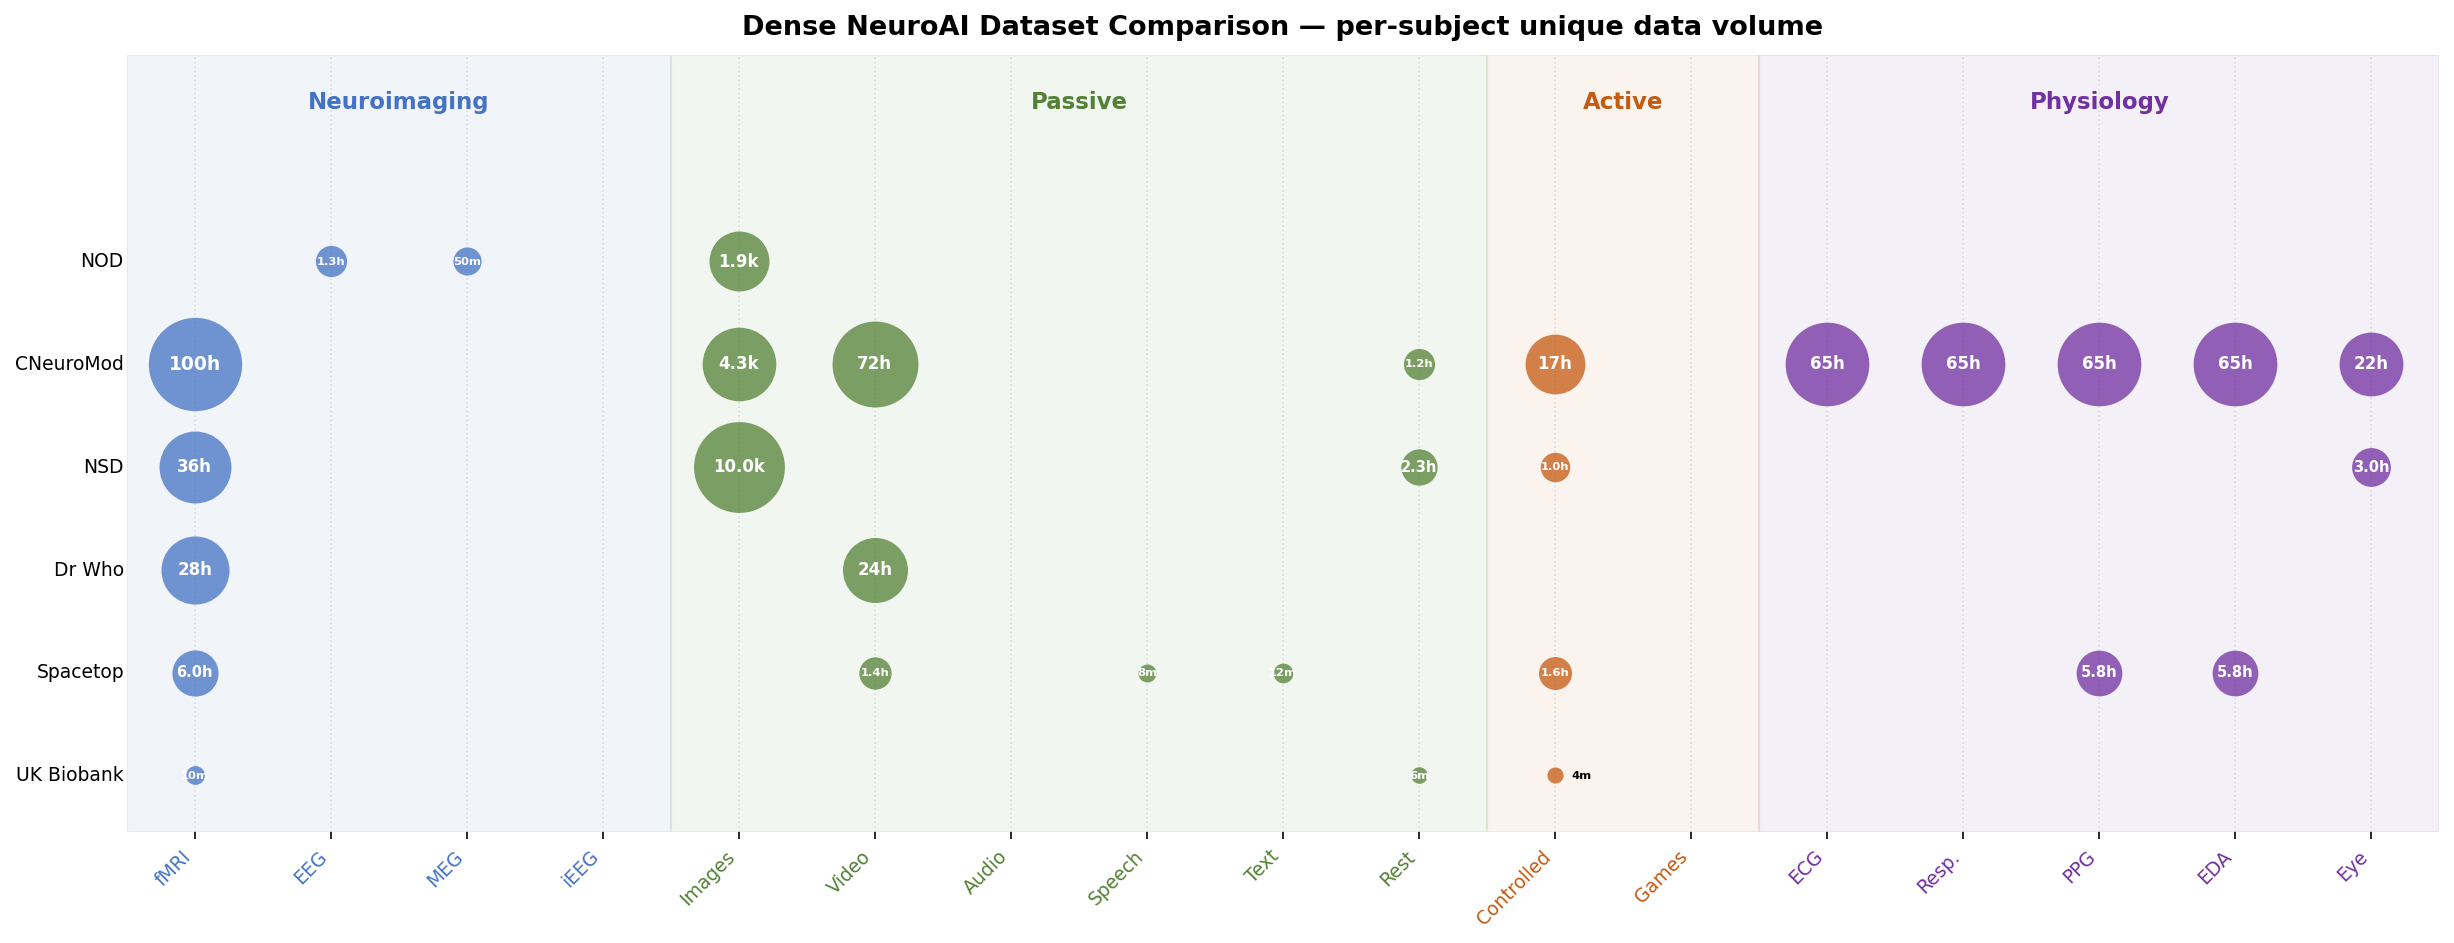
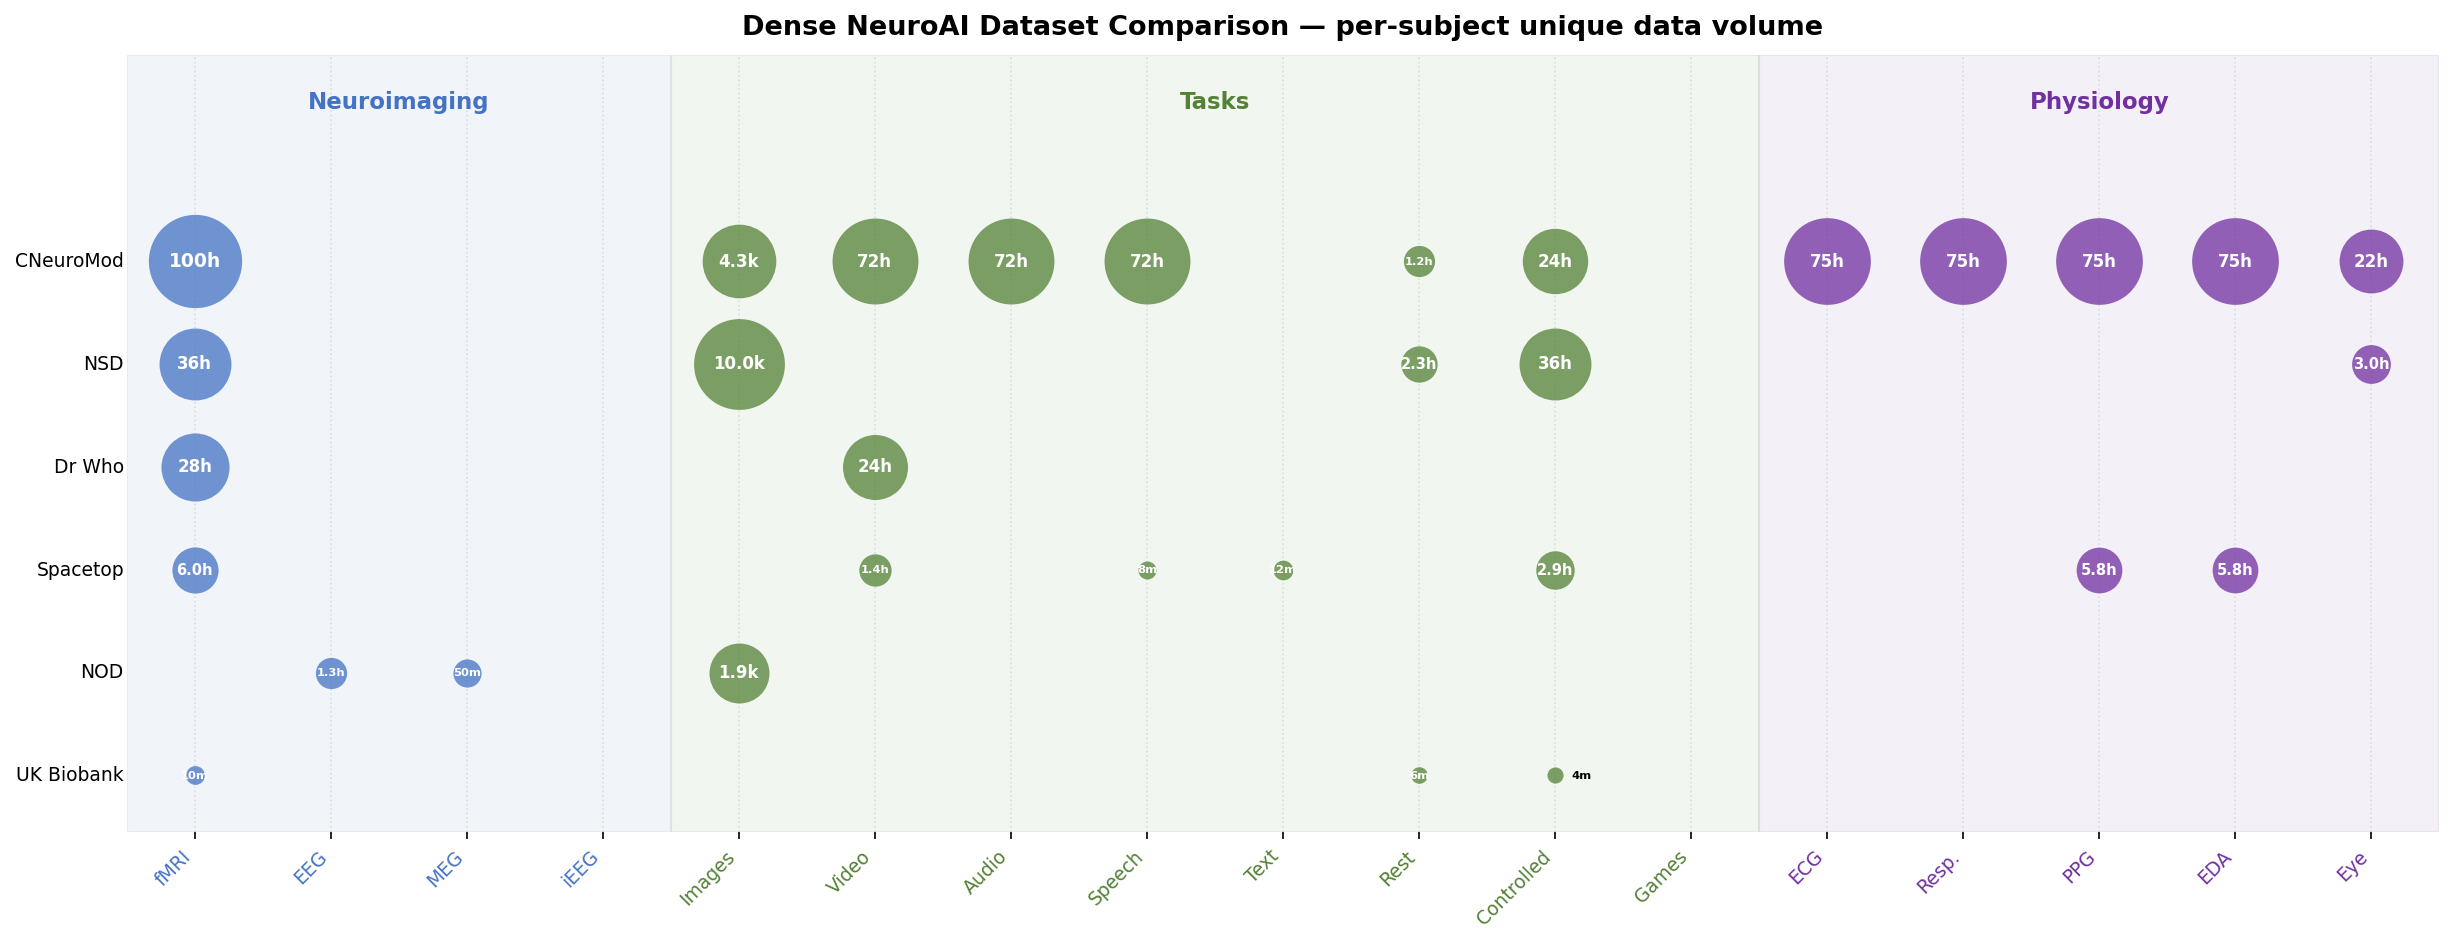
Sort bubble chart datasets by sum of neuroimaging hours

diff --git a/analysis/visualisation.py b/analysis/visualisation.py
@@ -62,17 +62,23 @@ def make_bubble_chart(column_groups, pivot, datasets_list, title, out_path,
         group_spans.append((group_name, color, start, len(all_cols) - 1))
     n_cols = len(all_cols)
 
-    if sort_by is None:
-        sort_by = next(
-            (p for _, p, _, _ in all_cols if "fmri" in p and "per_subject" in p),
-            None,
-        )
-    if sort_by and sort_by in pivot.columns:
-        datasets_sorted = sorted(
-            datasets_list,
-            key=lambda d: pivot.loc[d, sort_by] if d in pivot.index else 0,
-            reverse=True,
-        )
+    neuro_hour_paths = [
+        p for gname, _, fields in column_groups
+        for _, p, u in fields
+        if gname == "Neuroimaging" and u == "h"
+    ]
+
+    def _neuro_sum(ds):
+        total = 0.0
+        for p in (neuro_hour_paths if sort_by is None else [sort_by]):
+            if ds in pivot.index and p in pivot.columns:
+                v = pivot.loc[ds, p]
+                if pd.notna(v):
+                    total += float(v)
+        return total
+
+    if sort_by is None or sort_by in pivot.columns:
+        datasets_sorted = sorted(datasets_list, key=_neuro_sum, reverse=True)
     else:
         datasets_sorted = sorted(datasets_list)
     n_ds = len(datasets_sorted)